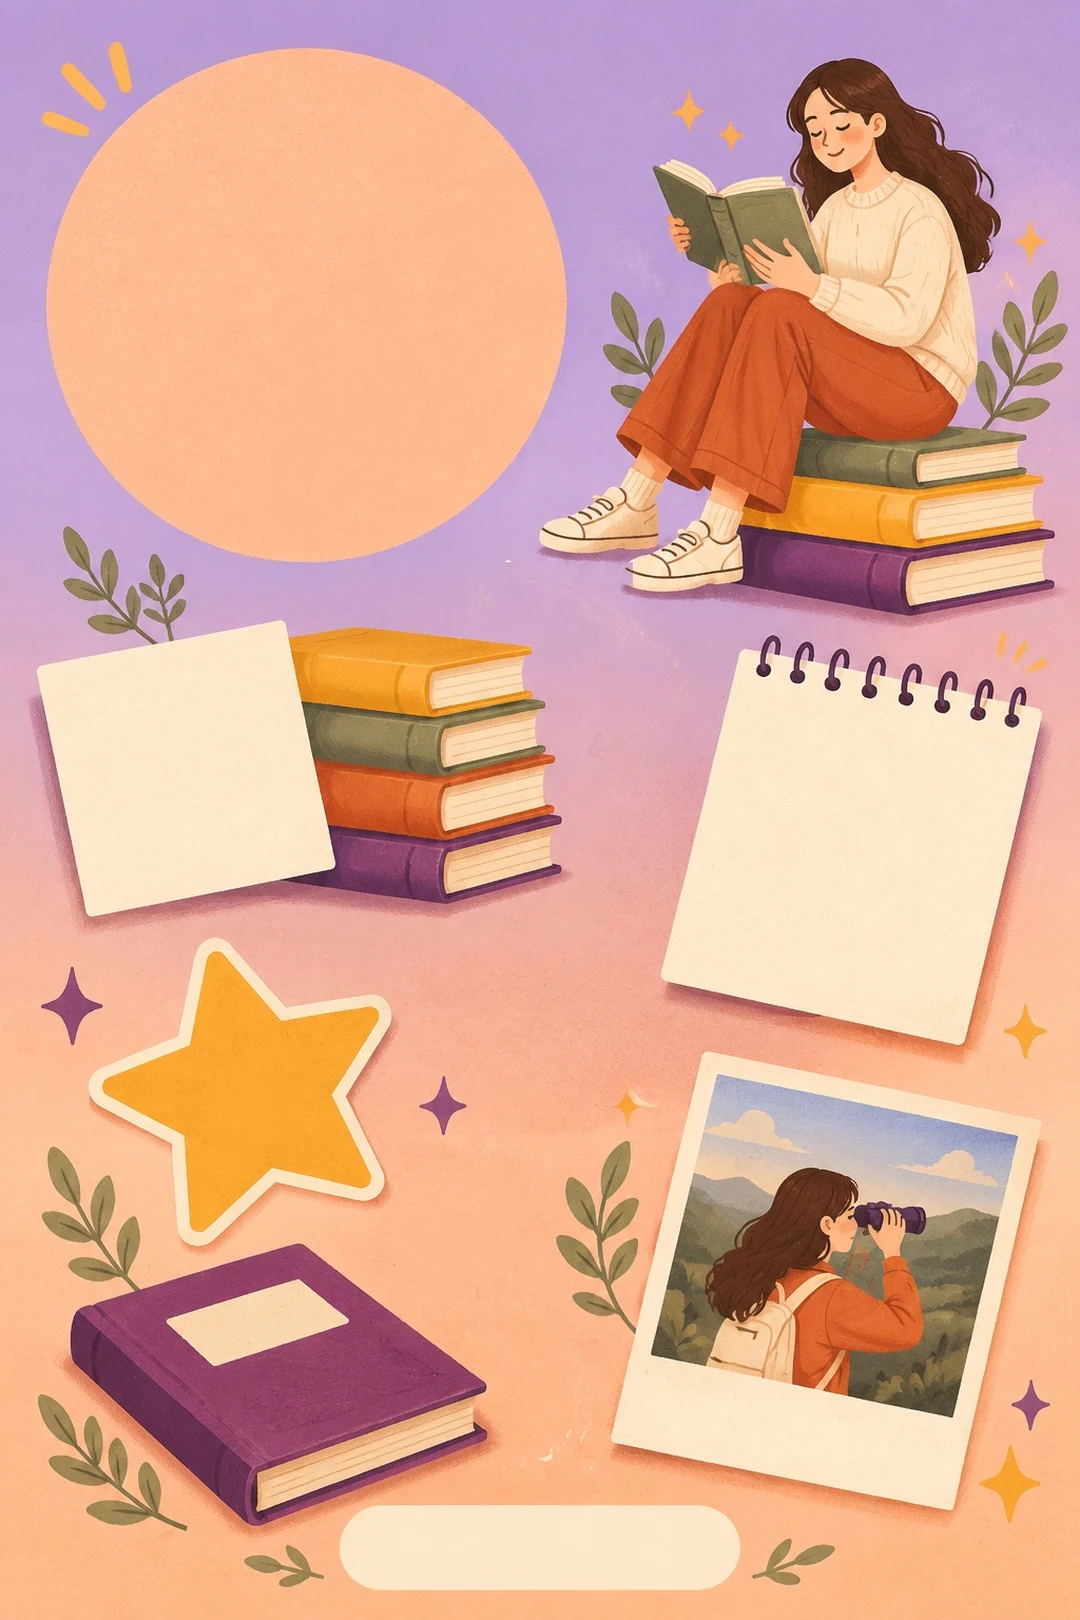
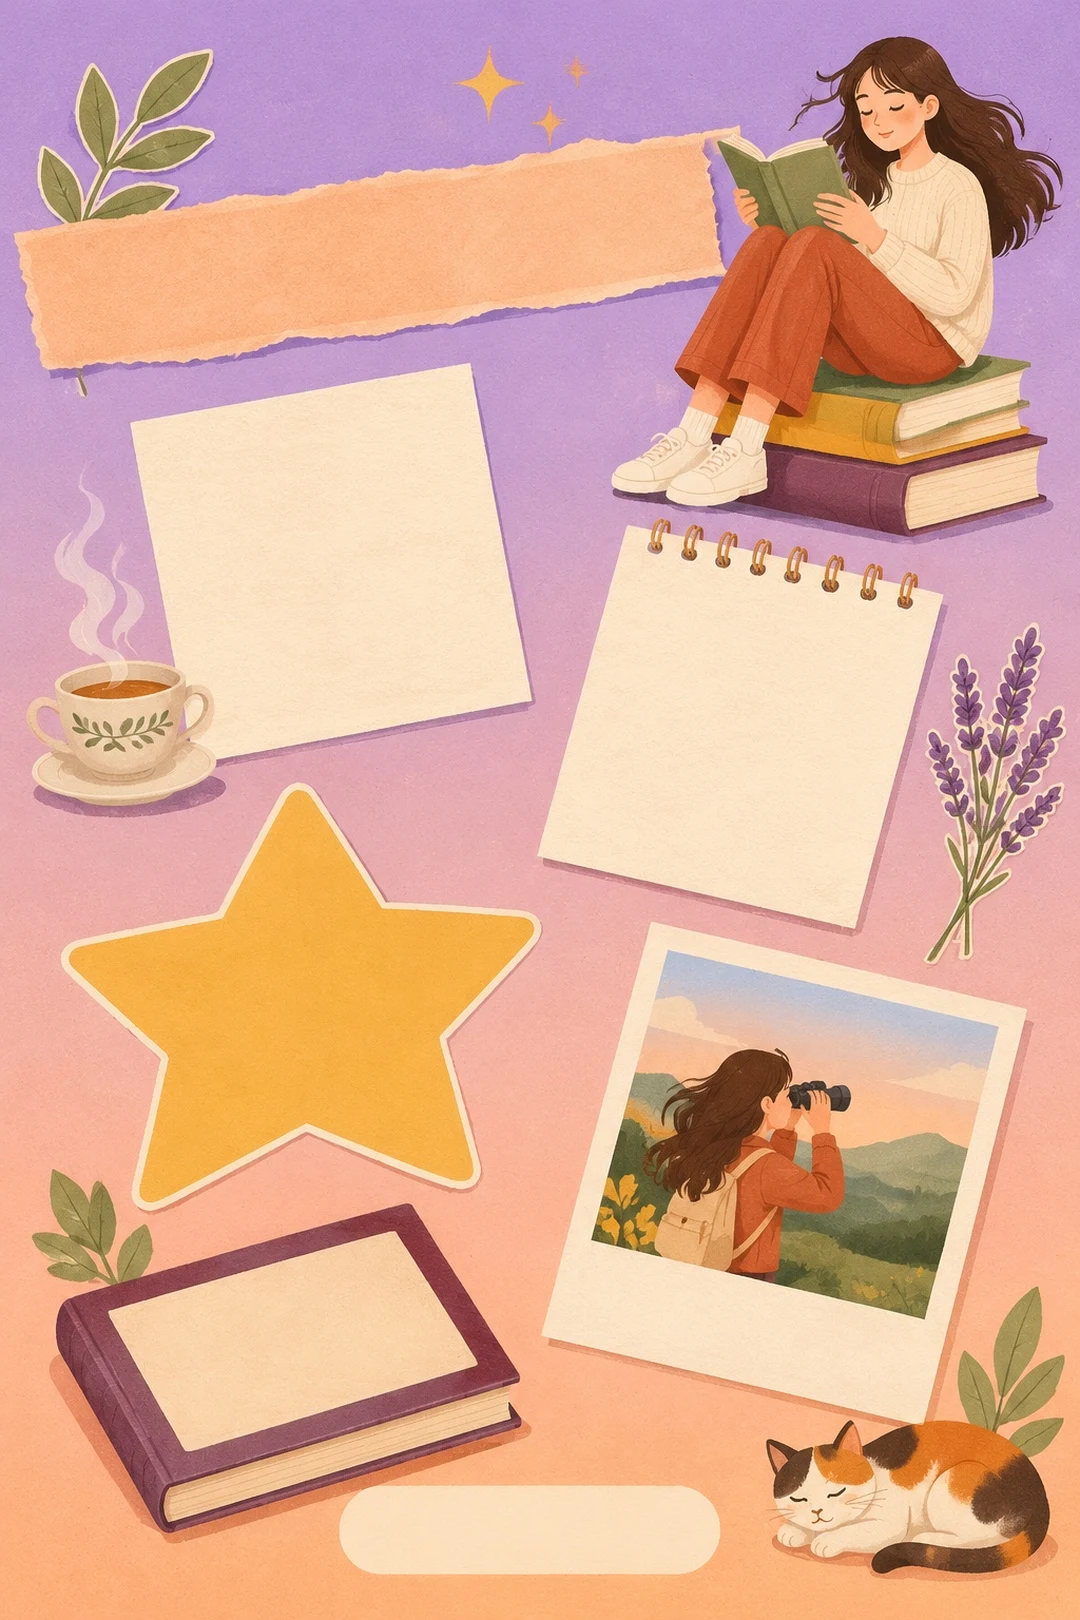
Итоги года, последний лист: новый коллаж от GPT без повторов (одна стопка книг, разные веточки, кошка), страницы на полоске бумаги, оценка и жанр внутри своих фигур, без стрелок
Claude-Session: https://claude.ai/code/session_01SUGbBE4TZETwu6HLqvYps6

diff --git a/app-dev.html b/app-dev.html
@@ -7487,7 +7487,7 @@ let WRFP=null;const wrFonts=()=>WRFP||(WRFP=Promise.all(WRF.map(([f,n,w,st])=>{t
 async function wrCards(D){await wrFonts();const H="NoraHead, sans-serif",F="NoraSans, sans-serif",HAND="NoraHand, cursive",INK="#2B2440",PLUM="#5A2F66",ACC="#8E3F2E",MUTE="rgba(43,36,64,.74)",n=D.L.length,out=[];
   const pool=[D.top[0]||D.last,...D.top.slice(1),...D.L.slice().reverse()].filter((b,i,a)=>b&&a.indexOf(b)===i),hero=pool[0],st=b=>b&&b.r!=null?Math.max(1,Math.min(5,Math.round(b.r/2))):0,genre=D.gk.length?String(GEN[D.gk[0][0]]||""):"";
   const auN=a=>{a=String(a||"");const m=a.match(/^([^,]+),\s*(\S+)/);return m?m[2]+" "+m[1]:a};
-  const ART={};await Promise.all(["main","book","pages","month","type","stats"].map(async k=>{ART[k]=await wrLd("img/itogi/g-"+k+".webp?v=5")}));
+  const ART={};await Promise.all(["main","book","pages","month","type","stats"].map(async k=>{ART[k]=await wrLd("img/itogi/g-"+k+".webp?v=6")}));
   const mk=k=>{const c=document.createElement("canvas");c.width=1080;c.height=1920;const x=c.getContext("2d");x.textBaseline="alphabetic";x.fillStyle="#D9D3EA";x.fillRect(0,0,1080,1920);const a=ART[k];
     if(a){const s=Math.max(1080/a.naturalWidth,1920/a.naturalHeight),w=a.naturalWidth*s,h=a.naturalHeight*s;x.drawImage(a,(1080-w)/2,1920-h,w,h)}
     x.font=`600 30px ${F}`;x.fillStyle=INK;x.fillText("Нора",80,130);return [c,x]};
@@ -7521,31 +7521,27 @@ async function wrCards(D){await wrFonts();const H="NoraHead, sans-serif",F="Nora
     const [c,x]=mk("type");AL="center";cap(x,"Номинация года",Y0);let y=big2(x,"«"+w[1]+"»",Y0+20,104,44,3);note(x,w[2],y);site(x);out.push(c)}
   // 6. последний лист «Мой год в цифрах»: коллаж-рисунок без надписей (img/itogi/g-stats.webp, сделан GPT), цифры кладём на пустые места рисунка
   {const c=document.createElement("canvas");c.width=1080;c.height=1920;const x=c.getContext("2d");x.textBaseline="alphabetic";const a=ART.stats,K=1080/1024,OY=300;
-    x.fillStyle="rgb(188,155,212)";x.fillRect(0,0,1080,1920);if(a)x.drawImage(a,0,OY,1080,1620);
+    x.fillStyle="rgb(178,152,214)";x.fillRect(0,0,1080,1920);if(a){x.drawImage(a,0,OY,1080,1620);try{const d=x.getImageData(0,OY+2,1080,6).data;let r=0,g=0,b=0,k=0;for(let i=0;i<d.length;i+=4){r+=d[i];g+=d[i+1];b+=d[i+2];k++}r=r/k|0;g=g/k|0;b=b/k|0;x.fillStyle=`rgb(${r},${g},${b})`;x.fillRect(0,0,1080,OY+1);
+      let sd=11;const rn=()=>(sd=(sd*16807)%2147483647)/2147483647;for(let i=0;i<9000;i++){const v=rn()<.5?255:0;x.fillStyle=`rgba(${v},${v},${v},${.03+rn()*.04})`;x.fillRect(rn()*1080,rn()*OY,1.6,1.6)}}catch(e){}}   /* небо над рисунком - его цвет и лёгкое зерно */
     const P=(ox,oy)=>[ox*K,oy*K+OY];   // точка на рисунке 1024×1536 -> точка на листе
     const at=(ox,oy,deg,fn)=>{const [px,py]=P(ox,oy);x.save();x.translate(px,py);x.rotate(deg*Math.PI/180);x.textAlign="center";fn();x.restore()};
     const fitH=(t,max,s,min)=>{x.font=`600 ${s}px ${H}`;while(s>min&&x.measureText(t).width>max){s-=2;x.font=`600 ${s}px ${H}`}return s};
     x.font=`600 30px ${F}`;x.fillStyle=INK;x.fillText("Нора",80,130);
     x.font=`700 112px ${HAND}`;x.fillStyle=PLUM;x.textAlign="center";x.fillText(`Мой ${D.Y} в цифрах`,540,250);x.textAlign="left";
-    // стрелки - по порядку чтения: страницы -> книги -> месяц -> оценка -> жанр -> тип
-    const arrow=(pts,head=true)=>{const Q=pts.map(([u,v])=>P(u,v));x.save();x.strokeStyle="rgba(255,251,244,.92)";x.lineWidth=5;x.lineCap="round";x.setLineDash([16,13]);x.beginPath();x.moveTo(...Q[0]);
-      if(Q.length===3)x.quadraticCurveTo(...Q[1],...Q[2]);else x.lineTo(...Q[1]);x.stroke();x.setLineDash([]);if(head){const e=Q[Q.length-1],f=Q[Q.length-2],an=Math.atan2(e[1]-f[1],e[0]-f[0]);x.beginPath();x.moveTo(e[0]-22*Math.cos(an-.5),e[1]-22*Math.sin(an-.5));x.lineTo(...e);x.lineTo(e[0]-22*Math.cos(an+.5),e[1]-22*Math.sin(an+.5));x.stroke()}x.restore()};
-    arrow([[430,560],[400,610],[338,612]]);arrow([[555,700],[600,640],[668,655]]);arrow([[640,960],[540,1040],[392,1010]]);arrow([[330,1135],[360,1175],[340,1200]]);arrow([[470,1300],[530,1240],[592,1262]]);
-    // страницы - в персиковом круге
-    {const pg=D.pg||0,v=pg?pg.toLocaleString("ru-RU"):"-";at(290,282,0,()=>{fitH(v,430,170,70);x.fillStyle=INK;x.fillText(v,0,40);x.font=`500 38px ${F}`;x.fillText(pg?plural(pg,"страница","страницы","страниц"):"страниц",0,104);x.fillText("прочитано",0,150)})}
-    // книги - на кремовой карточке (наклон карточки -10°)
-    at(178,728,-10,()=>{x.fillStyle=INK;fitH(String(n),210,120,60);x.fillText(String(n),0,22);x.font=`500 32px ${F}`;x.fillText(plural(n,"книга","книги","книг")+" за год",0,78)});
-    // месяц - на листке календаря (+11°)
-    {const bm=D.mon[D.best]||0,m=WR_MF[D.best]||"",M=m.slice(0,1).toUpperCase()+m.slice(1);at(806,812,11,()=>{x.fillStyle=INK;fitH(M,270,84,40);x.fillText(M,0,-6);x.font=`500 28px ${F}`;x.fillStyle=MUTE;x.fillText("самый читающий",0,46);x.fillText("месяц",0,80);if(bm){x.font=`700 56px ${HAND}`;x.fillStyle=PLUM;x.fillText(`${bm} ${plural(bm,"книга","книги","книг")}`,0,146)}})}
-    // оценка - на звезде
-    at(228,1046,0,()=>{x.fillStyle=INK;if(D.avg){const v=D.avg.toFixed(1).replace(".",",");fitH(v,150,72,40);x.fillText(v,0,14);x.font=`600 21px ${F}`;x.fillText("средняя оценка",0,48)}else{fitH(String(n),150,72,40);x.fillText(String(n),0,14);x.font=`600 21px ${F}`;x.fillText(plural(n,"книга","книги","книг"),0,48)}});
-    // жанр - на наклейке книги, подпись рукой на обложке (-5°)
-    {const g=(genre||"разные жанры").toLowerCase();at(246,1242,-5,()=>{x.fillStyle=INK;let f=26;x.font=`600 ${f}px ${F}`;const fits=()=>wrWrap(x,g,140,2).every(l=>x.measureText(l).width<=140)&&wrWrap(x,g,140,2).length*f*1.05<=46;while(f>13&&!fits()){f-=1;x.font=`600 ${f}px ${F}`}const L=wrWrap(x,g,140,2);L.forEach((l,i)=>x.fillText(l,0,(i-(L.length-1)/2)*f*1.05+f*.36))});
-      at(250,1312,-5,()=>{x.font=`700 46px ${HAND}`;x.fillStyle="#FFF6EC";x.fillText("любимый жанр",0,0)})}
-    // читательский тип - подпись на полароиде (+9°)
-    at(752,1358,9,()=>{x.font=`500 21px ${F}`;x.fillStyle=MUTE;x.fillText("мой читательский тип",0,-12);x.fillStyle=PLUM;let f=48;x.font=`700 ${f}px ${HAND}`;while(f>26&&x.measureText(D.type[0]).width>290){f-=2;x.font=`700 ${f}px ${HAND}`}x.fillText(D.type[0],0,f*.7)});
-    // адрес - в кремовой капсуле внизу рисунка
-    at(512,1466,0,()=>{x.font=`600 34px ${F}`;x.fillStyle=INK;x.fillText("nora-books.ru",0,12)});
+    // страницы - на полоске рваной бумаги (-7°): цифра слева, подпись справа
+    {const pg=D.pg||0,v=pg?pg.toLocaleString("ru-RU"):"-";at(350,242,-7,()=>{x.textAlign="left";fitH(v,330,118,60);x.fillStyle=INK;const vw=x.measureText(v).width;x.fillText(v,-300,40);x.font=`500 36px ${F}`;x.fillStyle=INK;x.fillText(pg?plural(pg,"страница","страницы","страниц"):"страниц",-300+vw+30,2);x.fillText("прочитано",-300+vw+30,46)})}
+    // книги - на кремовой карточке (-10°)
+    at(315,532,-10,()=>{x.fillStyle=INK;fitH(String(n),240,170,70);x.fillText(String(n),0,30);x.font=`500 38px ${F}`;x.fillText(plural(n,"книга","книги","книг")+" за год",0,100)});
+    // месяц - на листке календаря (+15°)
+    {const bm=D.mon[D.best]||0,m=WR_MF[D.best]||"",M=m.slice(0,1).toUpperCase()+m.slice(1);at(706,712,15,()=>{x.fillStyle=INK;fitH(M,250,86,40);x.fillText(M,0,-8);x.font=`500 30px ${F}`;x.fillStyle=MUTE;x.fillText("самый читающий",0,44);x.fillText("месяц",0,80);if(bm){x.font=`700 52px ${HAND}`;x.fillStyle=PLUM;x.fillText(`${bm} ${plural(bm,"книга","книги","книг")}`,0,138)}})}
+    // оценка - внутри звезды
+    at(287,985,0,()=>{x.fillStyle=INK;if(D.avg){const v=D.avg.toFixed(1).replace(".",",");fitH(v,190,96,48);x.fillText(v,0,16);x.font=`600 27px ${F}`;x.fillText("средняя оценка",0,60)}else{fitH(String(n),190,96,48);x.fillText(String(n),0,16);x.font=`600 27px ${F}`;x.fillText(plural(n,"книга","книги","книг"),0,60)}});
+    // жанр - на большой наклейке книги (-14°)
+    {const g=(genre||"разные жанры").toLowerCase();at(277,1268,-14,()=>{x.font=`500 24px ${F}`;x.fillStyle=MUTE;x.fillText("любимый жанр",0,-34);x.fillStyle=INK;let f=40;x.font=`600 ${f}px ${H}`;while(f>18&&wrWrap(x,g,250,2).some(l=>x.measureText(l).width>250)){f-=2;x.font=`600 ${f}px ${H}`}const L=wrWrap(x,g,250,2);L.forEach((l,i)=>x.fillText(l,0,10+i*f*1.08+f*.4))})}
+    // читательский тип - подпись на полароиде (+12°)
+    at(716,1262,12,()=>{x.font=`500 22px ${F}`;x.fillStyle=MUTE;x.fillText("мой читательский тип",0,-14);x.fillStyle=PLUM;let f=50;x.font=`700 ${f}px ${HAND}`;while(f>26&&x.measureText(D.type[0]).width>310){f-=2;x.font=`700 ${f}px ${HAND}`}x.fillText(D.type[0],0,f*.72)});
+    // адрес - в кремовой капсуле
+    at(502,1449,0,()=>{x.font=`600 34px ${F}`;x.fillStyle=INK;x.fillText("nora-books.ru",0,12)});
     out.push(c)}
   return out}
 function wrFill(){if(WR&&WR.u&&!wrEl.querySelector(".wr-full"))wrDraw()}
